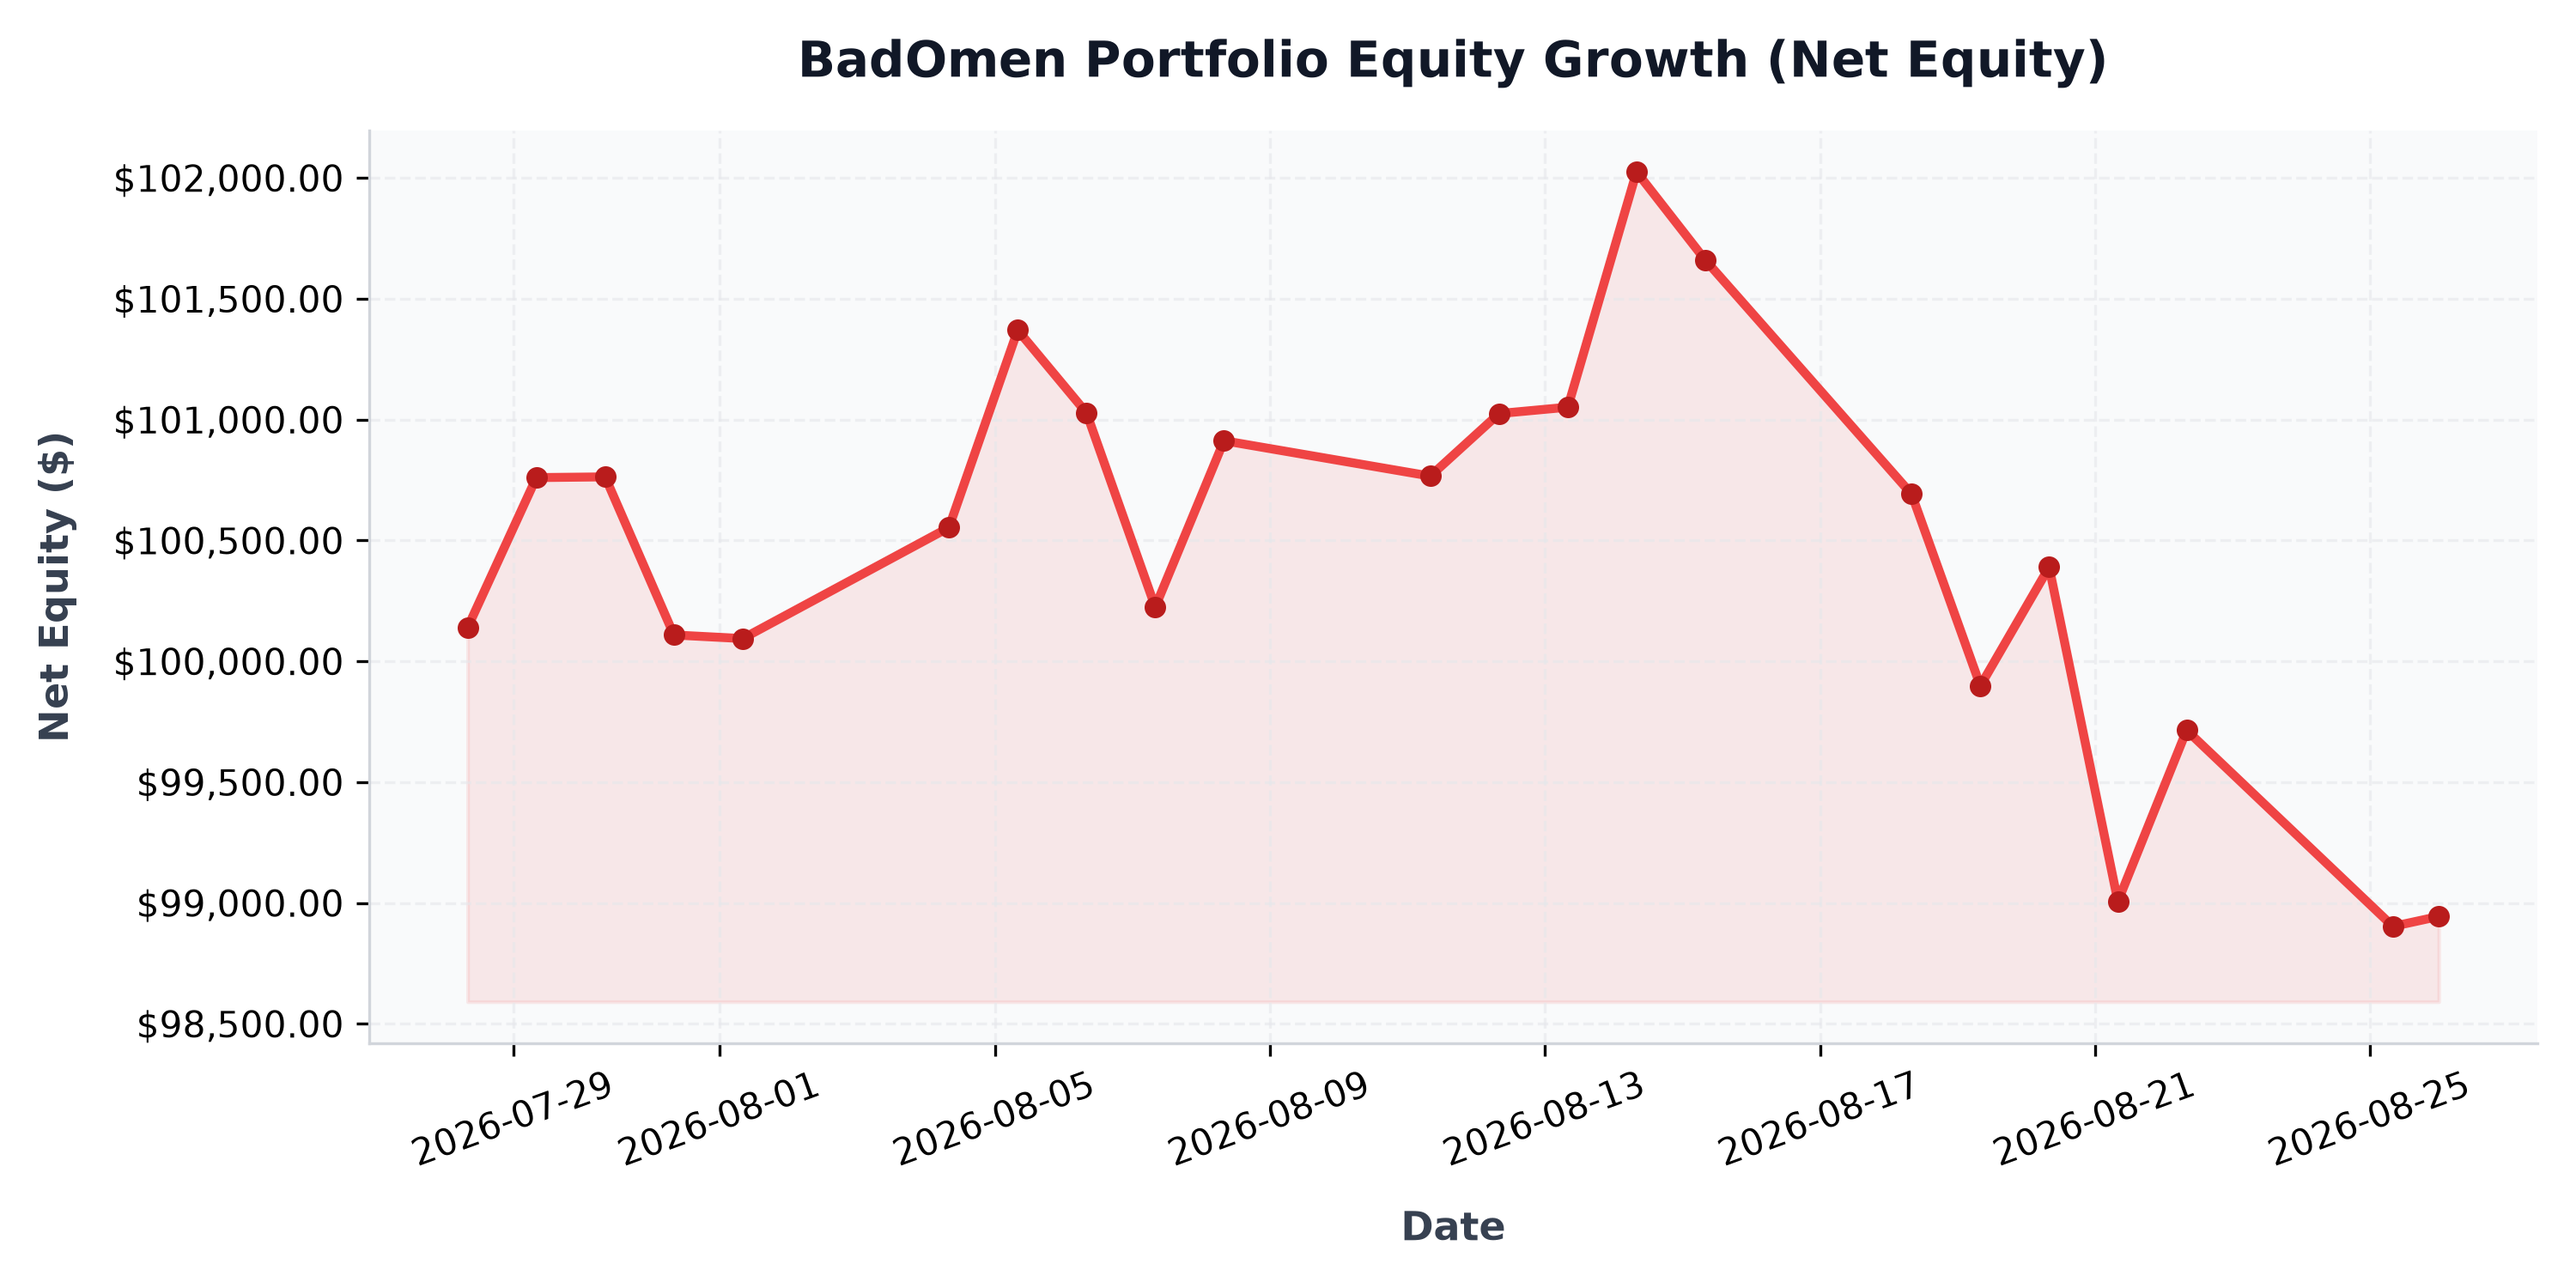
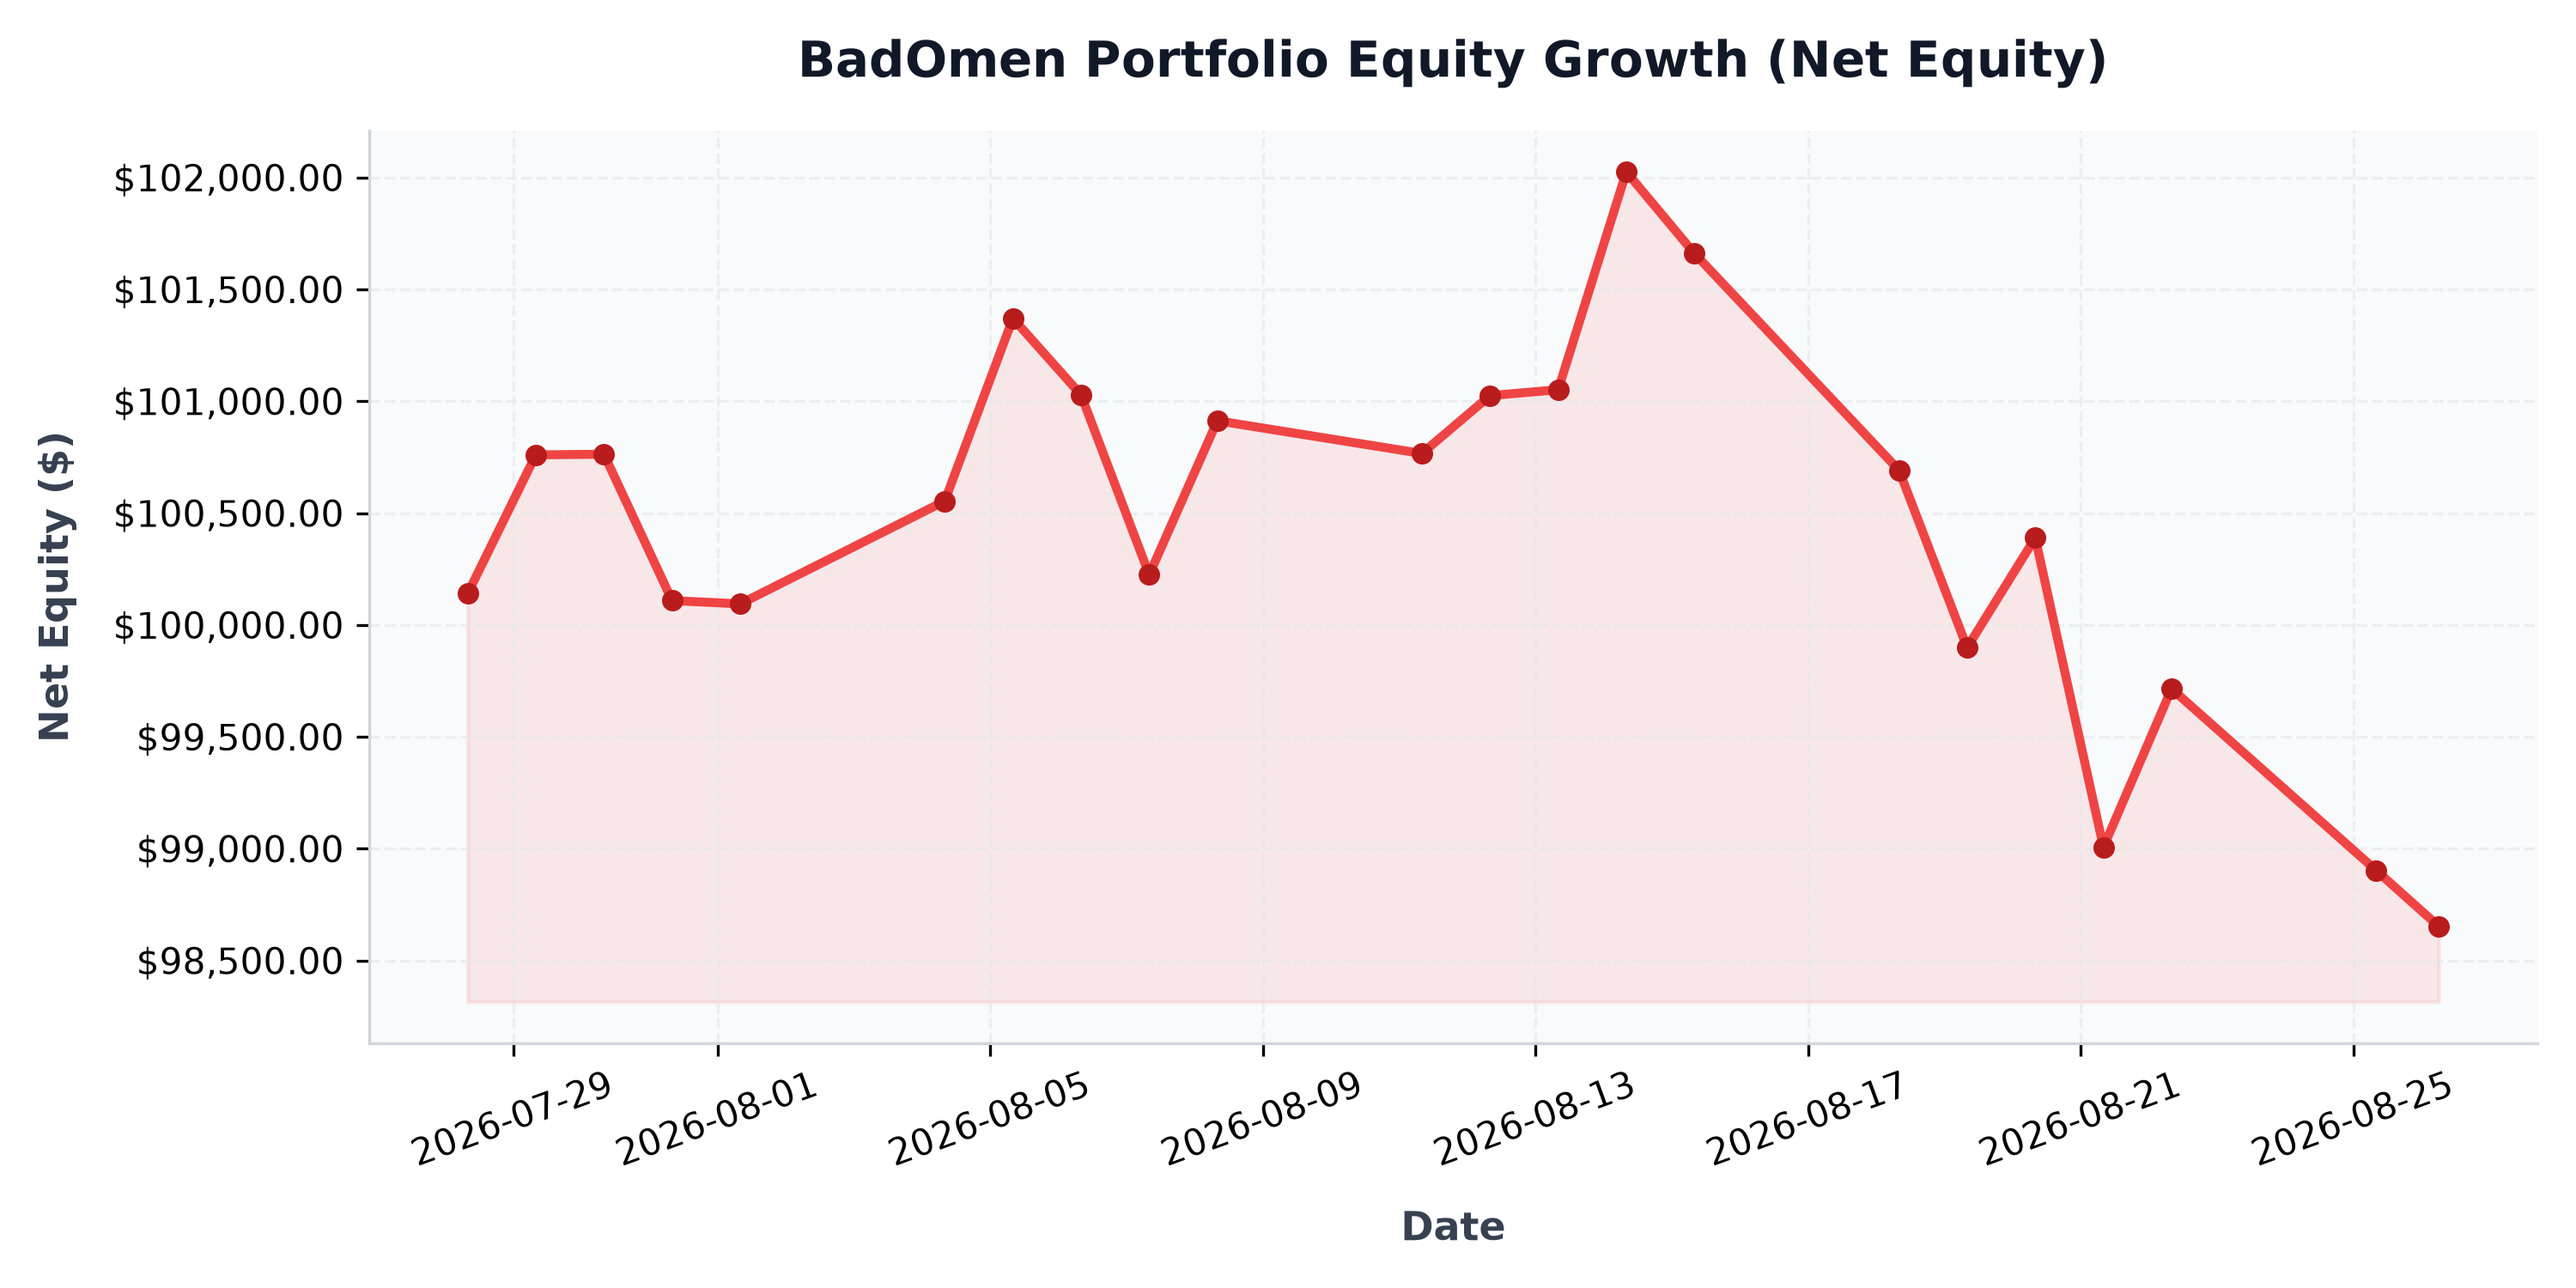
auto: daily portfolio status update - 2026-08-26 06:05:26

diff --git a/src/content/posts/portfolio-performance.md b/src/content/posts/portfolio-performance.md
@@ -1,6 +1,6 @@
 ---
 title: "BadOmen Algorithmic Portfolio Performance & PnL Report"
-pubDatetime: 2026-08-26T00:00:25.304600+08:00
+pubDatetime: 2026-08-26T06:05:26.293857+08:00
 description: "Live performance metrics, active holdings, and historic equity curve for the BadOmen automated paper trading portfolio."
 featured: true
 draft: false
@@ -16,11 +16,11 @@ Welcome to the live performance dashboard for **BadOmen**, our automated algorit
 ## 📊 Portfolio Summary
 | Performance Metric | Value | description |
 | :--- | :--- | :--- |
-| **Net Portfolio Equity** | **$98,944.34** | Total current liquidation value of cash and stock holdings |
-| **Total Unrealized P&L** | 🔴 **$-1,933.57** (-1.92%) | Total return of current open holdings |
+| **Net Portfolio Equity** | **$98,652.70** | Total current liquidation value of cash and stock holdings |
+| **Total Unrealized P&L** | 🔴 **$-2,226.05** (-2.21%) | Total return of current open holdings |
 | **Cash Balance** | $23,482.81 | Idle reserve currency available for limit orders |
-| **Buying Power** | $295,379.83 | Margin-backed buying power for entry allocations |
-| **Report Updated** | `2026-08-26 00:00:25 (SGT)` | Timestamp of daily execution and sync run |
+| **Buying Power** | $294,563.25 | Margin-backed buying power for entry allocations |
+| **Report Updated** | `2026-08-26 06:05:26 (SGT)` | Timestamp of daily execution and sync run |
 
 ## 📈 Net Equity Growth Curve
 The chart below illustrates the historical performance of the account starting from our baseline capital funding of $100,000.00.
@@ -35,36 +35,36 @@ The chart below illustrates the exposure of our currently held active positions 
 ## 💼 Current Position Holdings
 | Ticker | Industry | Shares Owned | Average Entry Cost | Current Price | Unrealized P&L | Return (%) |
 | :--- | :--- | :--- | :--- | :--- | :--- | :--- |
-| **AN** | Auto & Truck Dealerships | 5 | $188.51 | $195.80 | 🟢 +$36.47 | +3.87% |
-| **AVGO** | Semiconductors | 1 | $385.71 | $360.43 | 🔴 $-25.28 | -6.55% |
-| **BIRK** | Footwear & Accessories | 407 | $37.32 | $35.46 | 🔴 $-756.09 | -4.98% |
-| **BLBD** | Farm & Heavy Construction Machinery | 231 | $65.52 | $59.53 | 🔴 $-1,382.76 | -9.14% |
-| **BVN** | Other Precious Metals & Mining | 32 | $31.88 | $35.87 | 🟢 +$127.84 | +12.53% |
-| **CELH** | Beverages - Non-Alcoholic | 33 | $29.71 | $35.38 | 🟢 +$187.02 | +19.07% |
-| **CPRI** | Luxury Goods | 1042 | $14.55 | $13.40 | 🔴 $-1,200.18 | -7.92% |
-| **DUOL** | Software - Application | 14 | $131.04 | $145.09 | 🟢 +$196.64 | +10.72% |
-| **FIS** | Information Technology Services | 23 | $41.79 | $40.60 | 🔴 $-27.37 | -2.85% |
-| **GDDY** | Software - Infrastructure | 6 | $76.21 | $99.41 | 🟢 +$139.20 | +30.44% |
-| **GDS** | Information Technology Services | 30 | $32.77 | $32.79 | 🟢 +$0.60 | +0.06% |
-| **GGAL** | Banks - Regional | 17 | $56.04 | $43.20 | 🔴 $-218.19 | -22.90% |
-| **GOOGL** | Internet Content & Information | 3 | $319.44 | $346.61 | 🟢 +$81.50 | +8.50% |
-| **GPI** | Auto & Truck Dealerships | 3 | $316.15 | $260.50 | 🔴 $-166.95 | -17.60% |
-| **HUBS** | Software - Application | 8 | $221.18 | $238.98 | 🟢 +$142.39 | +8.05% |
-| **ITRI** | Scientific & Technical Instruments | 12 | $81.80 | $97.95 | 🟢 +$193.80 | +19.74% |
-| **KBR** | Engineering & Construction | 27 | $36.23 | $37.73 | 🟢 +$40.42 | +4.13% |
-| **META** | Internet Content & Information | 1 | $568.17 | $565.56 | 🔴 $-2.61 | -0.46% |
-| **NESR** | Oil & Gas Equipment & Services | 34 | $28.74 | $33.59 | 🟢 +$164.90 | +16.88% |
-| **NU** | Banks - Regional | 57 | $11.60 | $14.91 | 🟢 +$189.04 | +28.59% |
-| **ON** | Semiconductors | 10 | $90.45 | $71.86 | 🔴 $-185.95 | -20.56% |
-| **ORCL** | Software - Infrastructure | 5 | $181.95 | $145.75 | 🔴 $-181.00 | -19.90% |
-| **PATH** | Software - Infrastructure | 38 | $10.25 | $16.59 | 🟢 +$241.11 | +61.90% |
-| **PYPL** | Credit Services | 17 | $56.05 | $62.20 | 🟢 +$104.64 | +10.98% |
-| **QCOM** | Semiconductors | 15 | $193.68 | $160.55 | 🔴 $-497.02 | -17.11% |
-| **SMCI** | Computer Hardware | 22 | $29.25 | $38.24 | 🟢 +$197.89 | +30.75% |
-| **SRE** | Utilities - Diversified | 57 | $84.75 | $84.42 | 🔴 $-18.95 | -0.39% |
-| **T** | Telecom Services | 47 | $20.85 | $25.75 | 🟢 +$230.53 | +23.52% |
-| **WEN** | Restaurants | 257 | $8.02 | $9.04 | 🟢 +$259.90 | +12.60% |
-| **ZG** | Internet Content & Information | 31 | $31.35 | $37.64 | 🟢 +$194.89 | +20.05% |
+| **AN** | Auto & Truck Dealerships | 5 | $188.51 | $196.80 | 🟢 +$41.46 | +4.40% |
+| **AVGO** | Semiconductors | 1 | $385.71 | $358.00 | 🔴 $-27.71 | -7.18% |
+| **BIRK** | Footwear & Accessories | 407 | $37.32 | $35.31 | 🔴 $-817.14 | -5.38% |
+| **BLBD** | Farm & Heavy Construction Machinery | 231 | $65.52 | $58.65 | 🔴 $-1,586.04 | -10.48% |
+| **BVN** | Other Precious Metals & Mining | 32 | $31.88 | $36.40 | 🟢 +$144.90 | +14.21% |
+| **CELH** | Beverages - Non-Alcoholic | 33 | $29.71 | $35.26 | 🟢 +$182.90 | +18.65% |
+| **CPRI** | Luxury Goods | 1042 | $14.55 | $13.39 | 🔴 $-1,210.60 | -7.98% |
+| **DUOL** | Software - Application | 14 | $131.04 | $146.00 | 🟢 +$209.38 | +11.41% |
+| **FIS** | Information Technology Services | 23 | $41.79 | $40.50 | 🔴 $-29.67 | -3.09% |
+| **GDDY** | Software - Infrastructure | 6 | $76.21 | $99.60 | 🟢 +$140.34 | +30.69% |
+| **GDS** | Information Technology Services | 30 | $32.77 | $32.99 | 🟢 +$6.60 | +0.67% |
+| **GGAL** | Banks - Regional | 17 | $56.04 | $44.10 | 🔴 $-202.97 | -21.30% |
+| **GOOGL** | Internet Content & Information | 3 | $319.44 | $347.02 | 🟢 +$82.74 | +8.63% |
+| **GPI** | Auto & Truck Dealerships | 3 | $316.15 | $264.81 | 🔴 $-154.02 | -16.24% |
+| **HUBS** | Software - Application | 8 | $221.18 | $234.29 | 🟢 +$104.83 | +5.92% |
+| **ITRI** | Scientific & Technical Instruments | 12 | $81.80 | $98.73 | 🟢 +$203.16 | +20.70% |
+| **KBR** | Engineering & Construction | 27 | $36.23 | $37.69 | 🟢 +$39.34 | +4.02% |
+| **META** | Internet Content & Information | 1 | $568.17 | $568.15 | 🔴 $-0.02 | -0.00% |
+| **NESR** | Oil & Gas Equipment & Services | 34 | $28.74 | $33.95 | 🟢 +$177.14 | +18.13% |
+| **NU** | Banks - Regional | 57 | $11.60 | $15.12 | 🟢 +$200.72 | +30.36% |
+| **ON** | Semiconductors | 10 | $90.45 | $72.85 | 🔴 $-176.05 | -19.46% |
+| **ORCL** | Software - Infrastructure | 5 | $181.95 | $145.10 | 🔴 $-184.25 | -20.25% |
+| **PATH** | Software - Infrastructure | 38 | $10.25 | $16.60 | 🟢 +$241.30 | +61.95% |
+| **PYPL** | Credit Services | 17 | $56.05 | $62.20 | 🟢 +$104.55 | +10.97% |
+| **QCOM** | Semiconductors | 15 | $193.68 | $160.21 | 🔴 $-502.17 | -17.29% |
+| **SMCI** | Computer Hardware | 22 | $29.25 | $38.72 | 🟢 +$208.34 | +32.38% |
+| **SRE** | Utilities - Diversified | 57 | $84.75 | $82.94 | 🔴 $-103.53 | -2.14% |
+| **T** | Telecom Services | 47 | $20.85 | $25.74 | 🟢 +$229.83 | +23.45% |
+| **WEN** | Restaurants | 257 | $8.02 | $9.09 | 🟢 +$272.75 | +13.23% |
+| **ZG** | Internet Content & Information | 31 | $31.35 | $37.09 | 🟢 +$177.84 | +18.30% |
 
 ## 🔴 Recent Realized Trades
 | Ticker | Shares Sold | Entry Price | Exit Price | Strategy Trigger | Realized Return | Exit Date |
